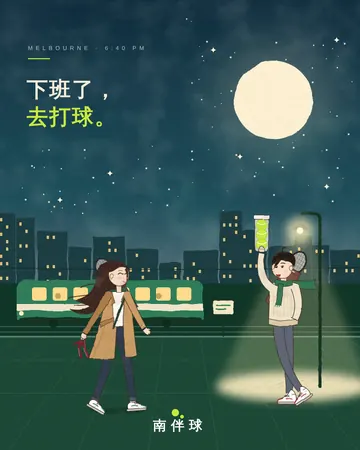
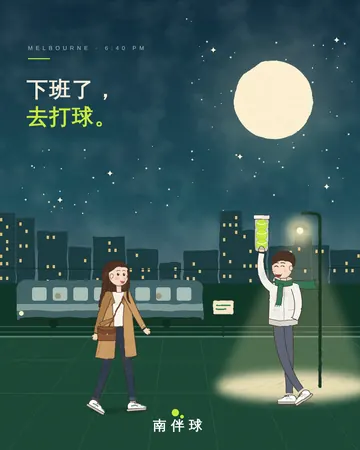
海报 85：照用户给的参考图重画（斜挎包、白外套、自然垂发、两人都笑，电车压暗），保留绘本水彩画法和新球罐
Claude-Session: https://claude.ai/code/session_014vi3eYmPjWCr2gwRMhjjif

Changed region(s): [[0.0306, 0.56, 0.5806, 0.8089], [0.7028, 0.56, 0.8556, 0.7467], [0.7944, 0.84, 0.8556, 0.9022]]

diff --git a/marketing/storyfig85.py b/marketing/storyfig85.py
@@ -1,5 +1,6 @@
 """85 号的两个人：下班走来的女生、靠着路灯等她的男生（局部坐标，脚底 y=0，身高约 440）。"""
 from storybook import *
+from storybook import blush, gloss
 
 
 def racket_in_bag(cx, cy, rot, bag, s=1.0):
@@ -28,16 +29,12 @@ def heels_pair():
 
 
 def woman_walk():
-    hair = '#3B2620'
+    hair = '#4A2E22'
     coat, coat_d, shirt, pants = '#C99A64', '#A97A48', '#FBF6EC', '#2E3A4E'
     g = ''
-    # 身后的球拍包（拍头从左肩后探出来）
-    g += racket_in_bag(-34, -404, -32, '#2F5D4A')
-    # 长发，被走路带起的风吹向身后
-    g += (f'<path d="M-2 -428 C-40 -432 -58 -404 -60 -374 C-62 -346 -84 -322 -120 -316 C-102 -308 -86 -304 -76 -298 '
-          f'C-98 -286 -116 -286 -134 -290 C-106 -270 -72 -272 -52 -292 C-40 -304 -30 -326 -22 -344 L22 -352 C36 -384 34 -416 -2 -428 Z" fill="{hair}" stroke="{OUT}" stroke-width="1.3"/>'
-          f'<path d="M-58 -340 C-80 -326 -110 -330 -138 -322 M-50 -316 C-70 -300 -100 -300 -122 -302 M-40 -366 C-60 -360 -86 -364 -104 -352" stroke="{hair}" stroke-width="2.2" fill="none" stroke-linecap="round"/>'
-          f'<path d="M-44 -380 C-50 -350 -66 -330 -90 -320" stroke="#6E4A3A" stroke-width="1.4" fill="none" opacity=".7"/>')
+    # 长发自然垂到背后，发尾随走路轻轻往后摆
+    g += (f'<path d="M-2 -428 C-34 -430 -44 -402 -42 -372 C-41 -348 -46 -322 -52 -298 C-44 -290 -32 -290 -24 -296 C-20 -290 -10 -290 -4 -296 L22 -312 C30 -334 34 -362 34 -390 C34 -418 18 -430 -2 -428 Z" fill="{hair}" stroke="{OUT}" stroke-width="1.3"/>'
+          f'<path d="M-30 -396 C-34 -360 -36 -330 -46 -302 M-18 -380 C-20 -350 -22 -322 -26 -300" stroke="#7A5240" stroke-width="1.4" fill="none" opacity=".6"/>')
     # 后腿：脚跟抬起
     g += limb((-6, -228), (-30, -112), (-62, -30), 30, 17, pants)
     g += f'<path d="M-70 -42 L-52 -30 L-56 -22 L-74 -34 Z" fill="#46536A" stroke="{OUT}" stroke-width="1.2"/>'
@@ -49,20 +46,22 @@ def woman_walk():
     g += f'<path d="M38 -28 L54 -27 L54 -18 L38 -18 Z" fill="{SKIN}"/>'
     g += sneaker(56, -10, -4, 1)
     # 风衣后片，往后飘
-    g += (f'<path d="M-30 -340 C-36 -300 -46 -240 -80 -150 C-60 -146 -30 -144 -6 -150 L4 -300 L8 -338 Z" fill="{coat}" stroke="{OUT}" stroke-width="1.5"/>'
-          f'<path d="M-30 -260 C-40 -220 -52 -190 -66 -156" stroke="{coat_d}" stroke-width="2" fill="none"/>')
-    # 后面的手臂：往后摆，两根手指勾着高跟鞋（画在风衣后片前面，才看得见）
-    g += limb((-24, -330), (-58, -272), (-92, -222), 22, 15, coat_d)
-    g += f'<g transform="translate(-96 -206)">{heels_pair()}</g>'
-    g += hand(-93, -218, 30, 'hook')
+    g += (f'<path d="M-30 -340 C-36 -300 -44 -240 -62 -152 C-46 -148 -24 -146 -6 -150 L4 -300 L8 -338 Z" fill="{coat}" stroke="{OUT}" stroke-width="1.5"/>'
+          f'<path d="M-30 -260 C-38 -220 -46 -190 -54 -156" stroke="{coat_d}" stroke-width="2" fill="none"/>')
+    # 后面的手臂：自然往后摆
+    g += limb((-24, -330), (-46, -276), (-58, -222), 22, 15, coat_d)
+    g += hand(-58, -218, 14, 'open', mirror=-1)
     # 衬衫 + 风衣前片
     g += f'<path d="M-14 -340 L24 -340 L30 -240 L-8 -240 Z" fill="{shirt}" stroke="{OUT}" stroke-width="1.3"/>'
     g += (f'<path d="M24 -342 L40 -330 C44 -280 50 -220 58 -158 C46 -152 34 -152 24 -154 L18 -260 Z" fill="{coat}" stroke="{OUT}" stroke-width="1.5"/>'
           f'<path d="M24 -342 L12 -312 L22 -300" fill="{coat_d}" stroke="{OUT}" stroke-width="1.2"/>'
           f'<path d="M-14 -342 L-6 -310 L-16 -300" fill="{coat_d}" stroke="{OUT}" stroke-width="1.2"/>'
           f'<path d="M-8 -266 C-24 -262 -36 -258 -50 -250 C-46 -246 -44 -244 -46 -238 C-34 -246 -22 -252 -8 -256 Z" fill="{coat_d}" stroke="{OUT}" stroke-width="1.1"/>')
-    # 球拍包的带子，斜过胸前
-    g += f'<path d="M28 -336 L-10 -236" stroke="#22382E" stroke-width="6" stroke-linecap="round"/>'
+    # 斜挎的小皮包
+    g += (f'<path d="M26 -338 L-24 -236" stroke="#6B3E26" stroke-width="4" stroke-linecap="round"/>'
+          f'<path d="M-50 -240 H-6 Q-2 -240 -2 -236 V-206 Q-2 -200 -8 -200 H-48 Q-54 -200 -54 -206 V-236 Q-54 -240 -50 -240 Z" fill="#8A5234" stroke="{OUT}" stroke-width="1.4"/>'
+          f'<path d="M-54 -236 Q-28 -222 -2 -236 V-226 Q-28 -214 -54 -226 Z" fill="#74432A" stroke="{OUT}" stroke-width="1.1"/>'
+          f'<circle cx="-28" cy="-219" r="2.4" fill="#D8B45A"/>')
     # 前面的手臂：往前摆
     g += limb((30, -330), (54, -276), (78, -236), 22, 15, coat)
     g += f'<path d="M70 -246 L86 -232" stroke="{OUT}" stroke-width="1.2"/>'
@@ -72,37 +71,36 @@ def woman_walk():
     g += f'<path d="M-2 -362 L12 -362 L14 -338 L0 -338 Z" fill="{SKIN}" stroke="{OUT}" stroke-width="1.2"/>'
     g += f'<ellipse cx="6" cy="-390" rx="29" ry="33" fill="{SKIN}" stroke="{OUT}" stroke-width="1.4"/>'
     g += f'<ellipse cx="-14" cy="-384" rx="5" ry="7" fill="{SKIN}" stroke="{OUT}" stroke-width="1.1"/><circle cx="-15" cy="-375" r="2.4" fill="#D8B45A"/>'
-    # 刘海往后梳，几缕碎发
-    g += (f'<path d="M-24 -396 C-26 -430 22 -436 34 -404 C24 -412 10 -414 0 -406 C-8 -400 -16 -396 -24 -396 Z" fill="{hair}" stroke="{OUT}" stroke-width="1.3"/>'
-          f'<path d="M30 -408 C34 -396 33 -380 28 -368 C30 -382 29 -394 24 -404 Z" fill="{hair}" stroke="{OUT}" stroke-width="1"/>'
-          f'<path d="M-6 -420 C-20 -428 -36 -424 -48 -412" stroke="{hair}" stroke-width="2" fill="none" stroke-linecap="round"/>'
-          + gloss('M-12 -416 Q6 -428 24 -418', '#9A6A52'))
-    # 脸：笑眯眯的眼睛、腮红、小鼻子、嘴角上扬
-    g += (f'<path d="M5 -389 Q11 -395 17 -390 M23 -390 Q27.5 -394 31.5 -390" stroke="{OUT}" stroke-width="2.3" fill="none" stroke-linecap="round"/>'
-          f'<path d="M17 -390 l3 -2 M31.5 -390 l2.6 -2" stroke="{OUT}" stroke-width="1.3" stroke-linecap="round"/>'
-          f'<path d="M5 -399 Q11 -402 16 -400 M24 -400 Q28 -402 32 -399" stroke="#5A3A30" stroke-width="1.3" fill="none" stroke-linecap="round"/>'
-          + blush(10, -378, 9, 5) + blush(31, -378, 6, 4.4)
-          + f'<path d="M35 -386 C37 -382 37 -380 34 -379" stroke="{OUT}" stroke-width="1.3" fill="none"/>'
-          f'<path d="M18 -370 Q24 -365 29.5 -371" stroke="#B5524A" stroke-width="2" fill="none" stroke-linecap="round"/>'
-          f'<path d="M20.5 -367.6 Q24 -366 27 -368.5" stroke="#E9928A" stroke-width="1.6" fill="none" stroke-linecap="round" opacity=".8"/>')
+    # 侧分刘海 + 一缕头发搭在前肩
+    g += (f'<path d="M-24 -394 C-28 -430 20 -438 34 -404 C28 -410 20 -412 14 -410 C8 -414 -2 -412 -8 -404 C-14 -400 -20 -396 -24 -394 Z" fill="{hair}" stroke="{OUT}" stroke-width="1.3"/>'
+          f'<path d="M33 -404 C40 -388 40 -364 34 -340 C32 -326 36 -314 40 -306 C30 -312 26 -326 29 -342 C32 -362 33 -384 30 -400 Z" fill="{hair}" stroke="{OUT}" stroke-width="1.1"/>'
+          + gloss('M-12 -418 Q6 -428 24 -418', '#A8785E'))
+    # 脸：看着他，笑
+    g += (f'<ellipse cx="5" cy="-389" rx="3.4" ry="4.4" fill="{OUT}"/><ellipse cx="21" cy="-389" rx="3" ry="4.2" fill="{OUT}"/>'
+          f'<circle cx="6.2" cy="-390.8" r="1.3" fill="#fff"/><circle cx="22" cy="-390.8" r="1.2" fill="#fff"/>'
+          f'<path d="M0 -399 Q5 -402 10 -400 M17 -400 Q21 -402 25 -399" stroke="#5A3A30" stroke-width="1.4" fill="none" stroke-linecap="round"/>'
+          + blush(1, -377, 9, 5.4, .65) + blush(25, -377, 6.5, 4.6, .65)
+          + f'<path d="M29 -386 C31 -382 31 -380 28 -379" stroke="{OUT}" stroke-width="1.3" fill="none"/>'
+          f'<path d="M10 -372 Q17 -370 23 -373 Q21 -364 16 -364 Q11 -365 10 -372 Z" fill="#B5524A"/>'
+          f'<path d="M11.6 -371.4 Q17 -370.2 21.6 -372.2" stroke="#fff" stroke-width="1.2"/>')
     return g
 
 
 def man_lean():
-    hair, sweater, sw_d, pants, scarf = '#241A16', '#EFE3C8', '#D9C9A6', '#5B6472', '#2F7552'
+    hair, sweater, sw_d, pants, scarf = '#4A3226', '#F4F2EC', '#D8D4CA', '#5B6472', '#2F7552'
     g = ''
-    g += racket_in_bag(40, -404, 30, '#7A4A3A')
+    g += f'<path d="M-30 -350 C-36 -372 34 -372 30 -350 Z" fill="{sw_d}" stroke="{OUT}" stroke-width="1.3"/>'  # 帽兜
     # 围巾往身后飘的那一截
     g += f'<path d="M14 -352 C40 -356 66 -346 92 -356 C84 -340 96 -332 104 -330 C80 -324 50 -330 20 -334 Z" fill="{scarf}" stroke="{OUT}" stroke-width="1.3"/>'
     # 支撑腿（右）+ 交叉腿（左，脚尖点地）
     g += limb((12, -228), (16, -120), (18, -30), 32, 18, pants)
-    g += sneaker(12, -10, 0, -1, high=True, accent='#B23A3A')
+    g += sneaker(12, -10, 0, -1, high=False, accent='#C8C4BA')
     g += limb((-14, -228), (-10, -116), (50, -40), 32, 18, pants)
-    g += sneaker(56, -18, -34, -1, high=True, accent='#B23A3A')
+    g += sneaker(56, -18, -34, -1, high=False, accent='#C8C4BA')
     # 毛衣
     g += (f'<path d="M-38 -344 C-14 -352 14 -352 38 -344 L42 -240 C14 -232 -14 -232 -42 -240 Z" fill="{sweater}" stroke="{OUT}" stroke-width="1.5"/>'
           f'<path d="M-42 -244 C-14 -236 14 -236 42 -244 L42 -228 C14 -220 -14 -220 -42 -228 Z" fill="{sw_d}" stroke="{OUT}" stroke-width="1.3"/>'
-          + ''.join(f'<path d="M{x} -330 V-250" stroke="{sw_d}" stroke-width="1.6" opacity=".8"/>' for x in range(-28, 34, 10)))
+          + f'<path d="M2 -340 V-236" stroke="#A8A49A" stroke-width="1.6"/><path d="M-30 -270 L-12 -268 M14 -268 L32 -270" stroke="#C8C4BA" stroke-width="1.4"/>')
     # 右手插兜
     g += limb((34, -332), (52, -280), (34, -244), 24, 18, sweater)
     g += f'<path d="M22 -248 L40 -238" stroke="{OUT}" stroke-width="1.6"/>'
@@ -116,20 +114,18 @@ def man_lean():
     g += f'<path d="M-8 -364 L8 -364 L8 -340 L-8 -340 Z" fill="{SKIN}" stroke="{OUT}" stroke-width="1.2"/>'
     g += f'<ellipse cx="-4" cy="-392" rx="30" ry="33" fill="{SKIN}" stroke="{OUT}" stroke-width="1.4"/>'
     g += f'<ellipse cx="22" cy="-388" rx="5" ry="7" fill="{SKIN}" stroke="{OUT}" stroke-width="1.1"/>'
-    g += (f'<path d="M-32 -396 C-38 -432 0 -444 26 -428 C36 -420 36 -404 30 -392 C26 -404 16 -410 6 -408 C-4 -416 -20 -410 -32 -396 Z" fill="{hair}" stroke="{OUT}" stroke-width="1.3"/>'
-          f'<path d="M-14 -414 C-22 -404 -26 -396 -28 -386 C-20 -394 -14 -402 -8 -410 Z" fill="{hair}" stroke="{OUT}" stroke-width="1"/>'
+    g += (f'<path d="M-32 -396 C-38 -434 0 -446 26 -430 C36 -420 36 -404 30 -392 C26 -404 16 -410 6 -408 C-4 -414 -20 -408 -32 -396 Z" fill="{hair}" stroke="{OUT}" stroke-width="1.3"/>'
           f'<path d="M-2 -434 C-6 -444 2 -450 8 -446" stroke="{hair}" stroke-width="2.4" fill="none" stroke-linecap="round"/>'
           + gloss('M-20 -424 Q-4 -436 14 -430', '#5A5A66'))
     # 围巾绕脖子 + 垂在胸前的一截
     g += (f'<path d="M-24 -358 C-8 -350 12 -350 26 -358 L26 -340 C10 -334 -10 -334 -24 -340 Z" fill="{scarf}" stroke="{OUT}" stroke-width="1.3"/>'
           f'<path d="M-14 -344 L-22 -284 L-6 -282 L0 -342 Z" fill="{scarf}" stroke="{OUT}" stroke-width="1.3"/>'
           f'<path d="M-22 -286 l-2 8 M-17 -285 l-1 8 M-12 -284 l0 8" stroke="{scarf}" stroke-width="2"/>')
-    # 脸：朝左喊她
-    g += (f'<ellipse cx="-20" cy="-392" rx="3.4" ry="3.9" fill="{OUT}"/><ellipse cx="-2" cy="-392" rx="3.4" ry="3.9" fill="{OUT}"/>'
-          f'<circle cx="-21" cy="-393.4" r="1.1" fill="#fff"/><circle cx="-3" cy="-393.4" r="1.1" fill="#fff"/>'
-          f'<path d="M-26 -401 Q-20 -404.5 -14 -402 M-7 -402 Q-1 -404.5 5 -401" stroke="{OUT}" stroke-width="2" fill="none" stroke-linecap="round"/>'
-          + blush(-27, -379, 6, 4, .4) + blush(6, -379, 7, 4.4, .4)
+    # 脸：朝她笑着喊
+    g += (f'<path d="M-25 -392 Q-20 -397 -15 -392 M-7 -392 Q-2 -397 3 -392" stroke="{OUT}" stroke-width="2.4" fill="none" stroke-linecap="round"/>'
+          f'<path d="M-26 -402 Q-20 -405 -14 -403 M-7 -403 Q-1 -405 5 -402" stroke="#3A2620" stroke-width="2" fill="none" stroke-linecap="round"/>'
+          + blush(-27, -380, 6.5, 4.4, .55) + blush(6, -380, 8, 4.8, .55)
           + f'<path d="M-30 -386 C-34 -382 -33 -379 -29 -378" stroke="{OUT}" stroke-width="1.3" fill="none"/>'
-          f'<path d="M-21 -371 Q-14 -369 -7 -371 Q-9 -362 -14 -362 Q-19 -362 -21 -371 Z" fill="#8C3A34"/>'
-          f'<path d="M-19.5 -370.4 Q-14 -369 -8.5 -370.4" stroke="#fff" stroke-width="1.4"/>')
+          f'<path d="M-23 -372 Q-13 -369 -4 -372 Q-7 -361 -14 -361 Q-21 -362 -23 -372 Z" fill="#8C3A34"/>'
+          f'<path d="M-21 -371 Q-13 -369 -6 -371" stroke="#fff" stroke-width="1.8"/>')
     return g

diff --git a/marketing/posters/p85_tram_after_work.py b/marketing/posters/p85_tram_after_work.py
@@ -7,7 +7,7 @@ from storybook import wash, hatch, person
 META = dict(
     id=85, slug='tram-after-work', title='下班了，去打球', lines=['下班了，', '去打球。'],
     style=['插画', '绘本', '故事', '意境'], tone='深色', demo=False,
-    concept='绘本风（水彩晕染 + 彩铅排线）：墨尔本傍晚，大月亮和满天小星，电车刚开走；穿西装的女生背着球拍包走过来，高跟鞋拎在手上、脚上已经换了球鞋；路灯下的男生拎着一罐新球朝她招手',
+    concept='绘本风（水彩晕染 + 彩铅排线）：墨尔本傍晚，大月亮和满天小星，电车静静停在远处；穿驼色风衣、斜挎小皮包的女生笑着走过来，路灯下穿白外套、绿围巾的男生把一罐新球举过头顶，笑着喊她',
     use='下班后约晚场的朋友圈 / 小红书配图；绘本风第一张',
 )
 
@@ -36,11 +36,11 @@ def svg():
     heads = ''.join(f'<circle cx="{tx + 40 + i*62 + random.uniform(10, 34):.0f}" cy="{ty + 48}" r="9"/>' for i in (1, 3, 4, 6))
     tram = f'''
 <g filter="url(#rough)">
- <path d="M{tx} {ty + th} V{ty + 30} Q{tx} {ty} {tx + 34} {ty} H{tx + tw - 34} Q{tx + tw} {ty} {tx + tw} {ty + 30} V{ty + th} Z" fill="#2E7A57"/>
- <rect x="{tx}" y="{ty + 72}" width="{tw}" height="20" fill="#EFE3C6"/>
+ <path d="M{tx} {ty + th} V{ty + 30} Q{tx} {ty} {tx + 34} {ty} H{tx + tw - 34} Q{tx + tw} {ty} {tx + tw} {ty + 30} V{ty + th} Z" fill="#3F6266"/>
+ <rect x="{tx}" y="{ty + 72}" width="{tw}" height="20" fill="#7E9894"/>
  <rect x="{tx + 6}" y="{ty + th - 6}" width="{tw - 12}" height="16" rx="5" fill="#123224"/>
 </g>
-<g fill="#FFD98A">{tram_win}</g>
+<g fill="#A9BDB4">{tram_win}</g>
 <g fill="#7A5A2A" opacity=".45">{heads}</g>
 <circle cx="{tx + 14}" cy="{ty + 100}" r="7" fill="#FFF1B8"/>
 <path d="M{tx + 250} {ty} L{tx + 290} {ty - 34} L{tx + 330} {ty} M{tx + 270} {ty - 34} H{tx + 312}" stroke="#123224" stroke-width="4" fill="none"/>
